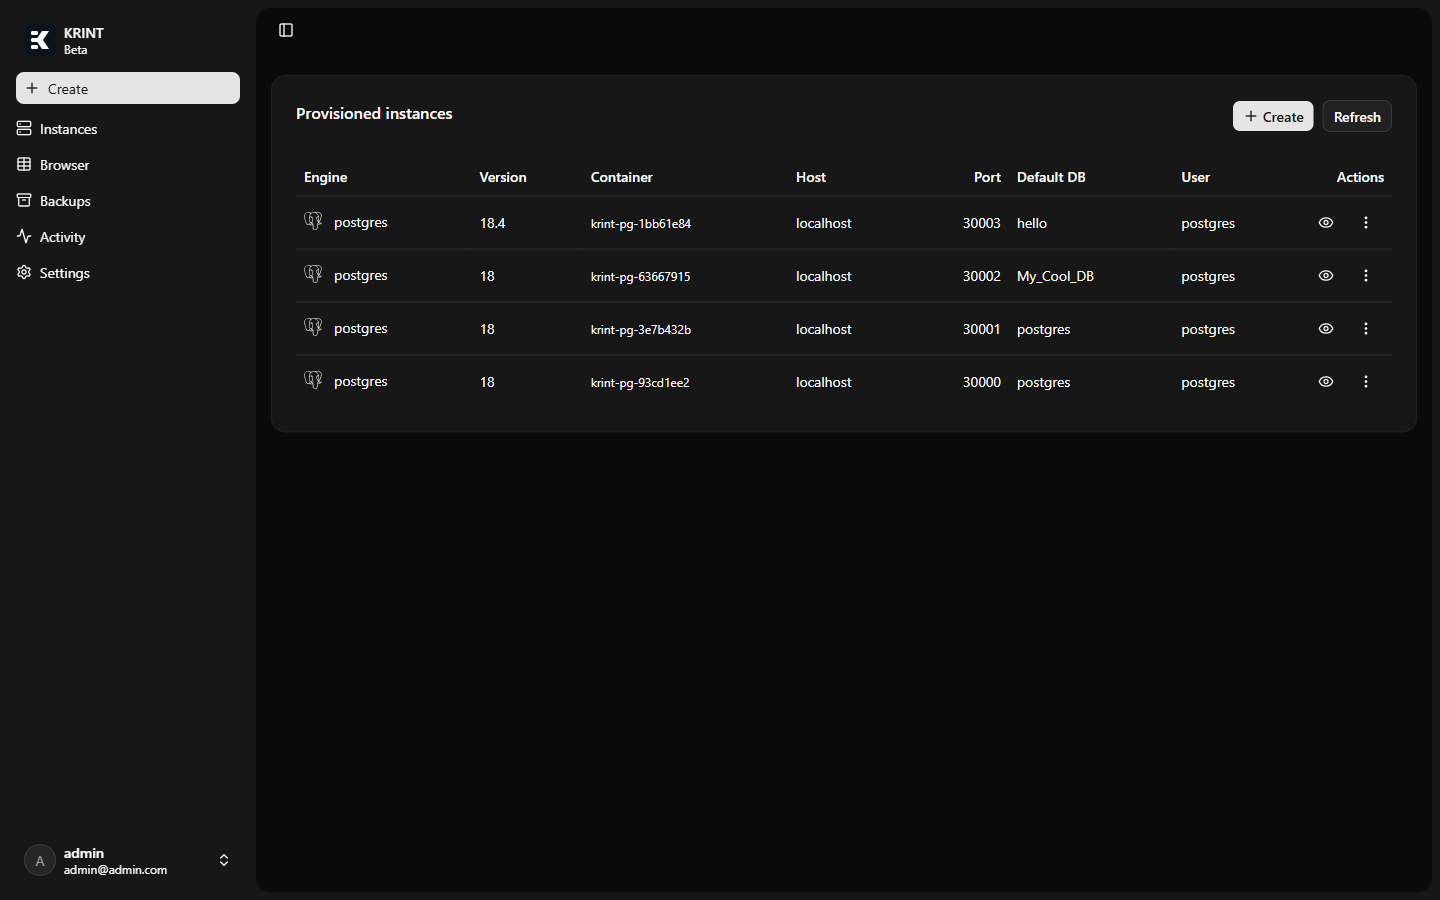
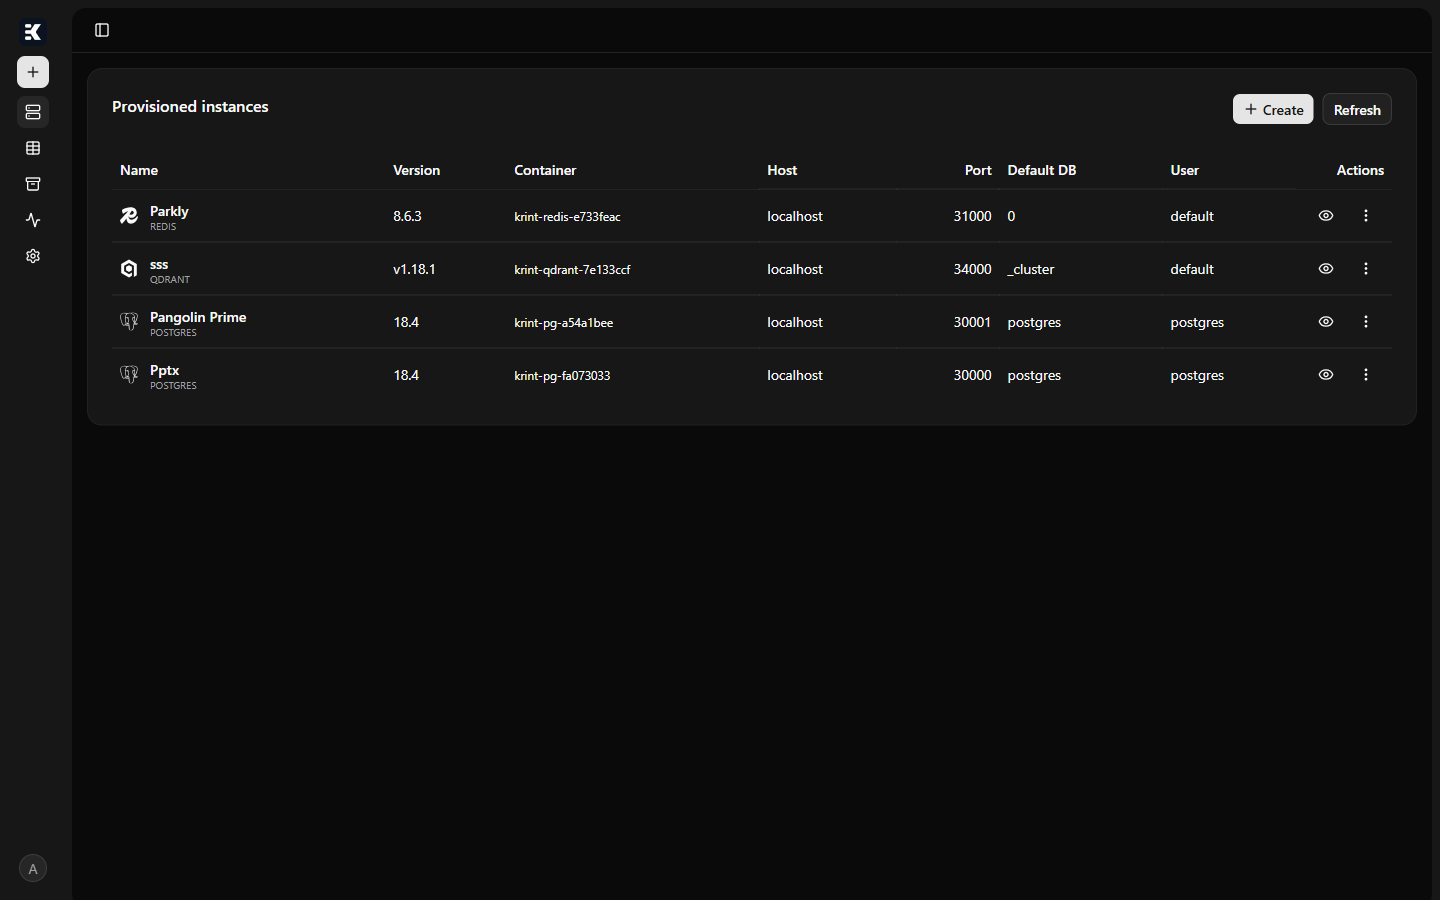
Lock the viewport scroll + pass height through route hosts; sticky thead
Three coordinated changes that finally make tables scroll inside their
own card body without the surrounding page moving:

1. Global lock: html + body get height: 100svh + overflow: hidden so
   no matter what a route renders, the page itself cannot scroll. The
   Spartan sidebar-inset variant adds m-2 to <main>, which used to
   push the main element a few pixels past the viewport; that's now
   clipped instead of scrolling the page.

2. Route host height pass-through: every routed component
   (app-databases, app-backups, app-browser, app-create, app-activity,
   app-settings, app-home) gets display: flex + flex-direction:
   column + height: 100% + min-height: 0 via a global selector. Each
   page's template can use flex-1 min-h-0 on its section and have it
   measure against main, not the auto-sized host. Replaced the
   per-page h-[calc(100vh-3rem)] hacks with flex-1 min-h-0.

3. Sticky table headers: HlmTHead's directive now adds
   `sticky top-0 z-10 bg-card`. To stop the existing hlmTableContainer
   wrapper (overflow-x-auto) from creating a containing block that
   trapped the sticky positioning, we drop the container from the
   tables that should have a sticky thead (databases, settings port
   ranges, backups schedules + backups). Tables sit directly inside
   the scrollable hlmCardContent now, so the thead sticks to the
   card's scroll surface.

diff --git a/src/KRINT.Frontend/src/styles.css b/src/KRINT.Frontend/src/styles.css
@@ -78,8 +78,35 @@ color-scheme: dark;
 * {
 @apply border-border outline-ring/50;
 }
+/* Lock the viewport. App shell uses h-svh + overflow-hidden, but the sidenav inset
+   variant adds m-2 to its <main>, pushing total height a hair past the viewport. With
+   html + body fixed to viewport height and overflow-hidden, the page itself can never
+   scroll - every route's inner scroll surface takes over. */
+html,
 body {
 @apply bg-background text-foreground;
+height: 100vh;
+height: 100svh;
+overflow: hidden;
+}
+
+/* Route component hosts: <main> is a flex column, but each routed component's host
+   element (<app-databases>, <app-backups>, ...) sits between main and the template's
+   sections. By default the host is display: block with auto height, so any flex-1 on
+   the inner section measures against the auto-sized host (= sum of children) instead
+   of main. Making the host a flex column with h-full passes the height all the way
+   down so flex-1 sections claim the full viewport. */
+app-home,
+app-databases,
+app-create,
+app-browser,
+app-backups,
+app-activity,
+app-settings {
+display: flex;
+flex-direction: column;
+height: 100%;
+min-height: 0;
 }
 
 /* Custom scrollbar that matches the app theme in both light and dark mode.

diff --git a/src/KRINT.Frontend/src/app/databases/databases.html b/src/KRINT.Frontend/src/app/databases/databases.html
@@ -1,7 +1,9 @@
 <app-content-header />
 
-<section class="flex flex-col gap-6 px-4 py-6">
-  <section hlmCard>
+<!-- Fills whatever main gives it; the card body becomes the scroll surface so the page
+     stays put. -->
+<section class="flex flex-1 min-h-0 flex-col gap-0 border-t p-4">
+  <section hlmCard class="flex min-h-0 flex-1 flex-col">
     <div hlmCardHeader>
       <h3 hlmCardTitle>Provisioned instances</h3>
       <div hlmCardAction class="flex items-center gap-2">
@@ -15,7 +17,7 @@
       </div>
     </div>
 
-    <div hlmCardContent>
+    <div hlmCardContent class="min-h-0 flex-1 overflow-auto">
       @if (store.error(); as err) {
         <div class="mb-3">
           <span hlmBadge variant="destructive">{{ err }}</span>
@@ -24,8 +26,7 @@
       @if (store.isEmpty()) {
         <p class="text-muted-foreground text-sm">No instances yet. Click <strong>Create</strong> to provision one.</p>
       } @else {
-        <div hlmTableContainer>
-          <table hlmTable>
+        <table hlmTable>
             <thead hlmTableHeader>
               <tr hlmTableRow>
                 <th hlmTableHead>Name</th>
@@ -100,8 +101,7 @@
                 </tr>
               }
             </tbody>
-          </table>
-        </div>
+        </table>
       }
     </div>
   </section>

diff --git a/src/KRINT.Frontend/src/app/backups/backups.ts b/src/KRINT.Frontend/src/app/backups/backups.ts
@@ -80,7 +80,7 @@ import { BackupScheduleDialogService } from './backup-schedule-dialog';
   template: `
     <app-content-header />
 
-    <section class="grid h-[calc(100vh-3rem)] grid-cols-[260px_1fr] gap-0 border-t">
+    <section class="grid flex-1 min-h-0 grid-cols-[260px_1fr] gap-0 border-t">
       <!-- ===== Left rail: instance cards (also acts as the "Create a backup" picker) ===== -->
       <aside class="border-r flex flex-col overflow-hidden">
         <header class="flex items-center justify-between px-3 py-2 border-b">
@@ -188,8 +188,7 @@ import { BackupScheduleDialogService } from './backup-schedule-dialog';
           @if (filteredSchedules().length === 0 && !loadingSchedules()) {
             <p class="text-muted-foreground text-sm">No schedules yet.</p>
           } @else {
-            <div hlmTableContainer>
-              <table hlmTable>
+            <table hlmTable>
                 <thead hlmTableHeader>
                   <tr hlmTableRow>
                     <th hlmTableHead>State</th>
@@ -262,7 +261,6 @@ import { BackupScheduleDialogService } from './backup-schedule-dialog';
                   }
                 </tbody>
               </table>
-            </div>
           }
         </div>
       </section>
@@ -283,8 +281,7 @@ import { BackupScheduleDialogService } from './backup-schedule-dialog';
           @if (filteredEntries().length === 0 && !loading()) {
             <p class="text-muted-foreground text-sm">No backups yet.</p>
           } @else {
-            <div hlmTableContainer>
-              <table hlmTable>
+            <table hlmTable>
                 <thead hlmTableHeader>
                   <tr hlmTableRow>
                     <th hlmTableHead>Created</th>
@@ -351,7 +348,6 @@ import { BackupScheduleDialogService } from './backup-schedule-dialog';
                   }
                 </tbody>
               </table>
-            </div>
           }
 
           @if (error(); as err) {

diff --git a/src/KRINT.Frontend/src/app/shared/layouts/app-layout/app-layout.html b/src/KRINT.Frontend/src/app/shared/layouts/app-layout/app-layout.html
@@ -1,5 +1,10 @@
 <app-sidenav>
-  <main hlmSidebarInset>
+  <!-- overflow-hidden + h-svh: lock the shell to the viewport so the page itself never
+       scrolls. Each route owns its own scroll surface (table body, card content, etc.),
+       which keeps the sidenav + page header fixed and avoids the double-scrollbar trap.
+       flex-col makes child layouts use min-h-0 + flex-1 to fill whatever's left after the
+       per-page content-header without having to hand-compute viewport math. -->
+  <main hlmSidebarInset class="h-svh overflow-hidden flex flex-col">
     <router-outlet />
   </main>
 </app-sidenav>

diff --git a/src/KRINT.Frontend/libs/ui/table/src/lib/hlm-table.ts b/src/KRINT.Frontend/libs/ui/table/src/lib/hlm-table.ts
@@ -34,7 +34,10 @@ export class HlmTable {
 })
 export class HlmTHead {
 	constructor() {
-		classes(() => '[&_tr]:border-b');
+		// sticky + bg-card: the table header pins to the top of whichever scroll container
+		// it sits inside, matching the surrounding card's background so the rows beneath
+		// don't bleed through as they scroll past. z-10 keeps it above hover styles.
+		classes(() => '[&_tr]:border-b sticky top-0 z-10 bg-card');
 	}
 }
 

diff --git a/src/KRINT.Frontend/src/app/settings/settings.ts b/src/KRINT.Frontend/src/app/settings/settings.ts
@@ -48,7 +48,7 @@ import { SettingsDto } from '../api/model/settingsDto';
     <!-- Fills the viewport. The two big cards (Port ranges + Supported engines) split the
          available height; Vault stays auto-sized at the bottom. Each big card scrolls its
          own body so the page itself never scrolls. -->
-    <section class="flex h-[calc(100vh-3rem)] flex-col gap-4 border-t p-4">
+    <section class="flex flex-1 min-h-0 flex-col gap-4 border-t p-4">
       @if (settings(); as s) {
         <section hlmCard class="flex min-h-0 flex-1 flex-col">
           <div hlmCardHeader>
@@ -58,7 +58,6 @@ import { SettingsDto } from '../api/model/settingsDto';
             </p>
           </div>
           <div hlmCardContent class="min-h-0 flex-1 overflow-auto">
-            <div hlmTableContainer>
               <table hlmTable>
                 <thead hlmTableHeader>
                   <tr hlmTableRow>
@@ -82,7 +81,6 @@ import { SettingsDto } from '../api/model/settingsDto';
                   }
                 </tbody>
               </table>
-            </div>
           </div>
         </section>
 

diff --git a/src/KRINT.Frontend/src/app/activity/activity.ts b/src/KRINT.Frontend/src/app/activity/activity.ts
@@ -30,7 +30,7 @@ import { ActivityEntryDto } from '../api/model/activityEntryDto';
 
     <!-- Full-viewport flex column: header stays put, the card fills the remaining height
          and its table body becomes the scroll surface. -->
-    <section class="flex h-[calc(100vh-3rem)] flex-col gap-0 border-t p-4">
+    <section class="flex flex-1 min-h-0 flex-col gap-0 border-t p-4">
       <section hlmCard class="flex min-h-0 flex-1 flex-col">
         <div hlmCardHeader>
           <h2 hlmCardTitle>Activity</h2>

diff --git a/src/KRINT.Frontend/src/app/browser/browser.html b/src/KRINT.Frontend/src/app/browser/browser.html
@@ -1,6 +1,6 @@
 <app-content-header />
 
-<section class="grid h-[calc(100vh-3rem)] grid-cols-[260px_240px_1fr] gap-0 border-t">
+<section class="grid flex-1 min-h-0 grid-cols-[260px_240px_1fr] gap-0 border-t">
   <!-- ===== Pane 1: Instance rail ===== -->
   <aside class="border-r flex flex-col overflow-hidden">
     <header class="flex items-center justify-between px-3 py-2 border-b">